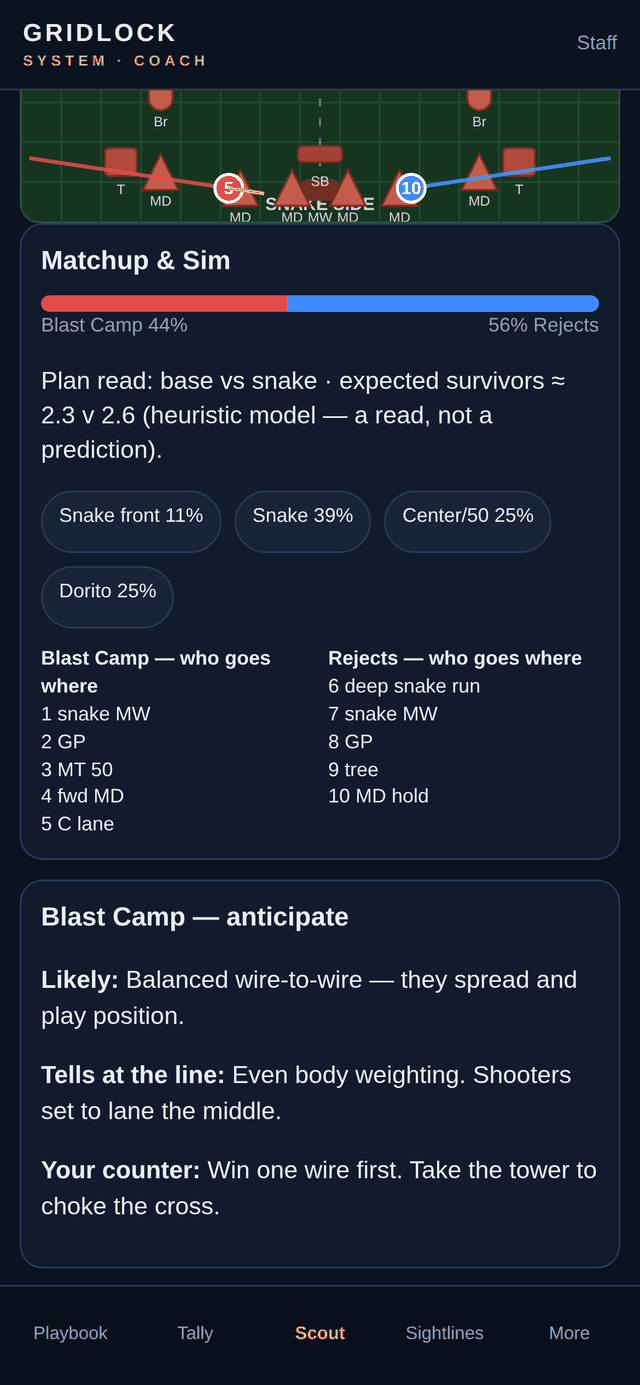
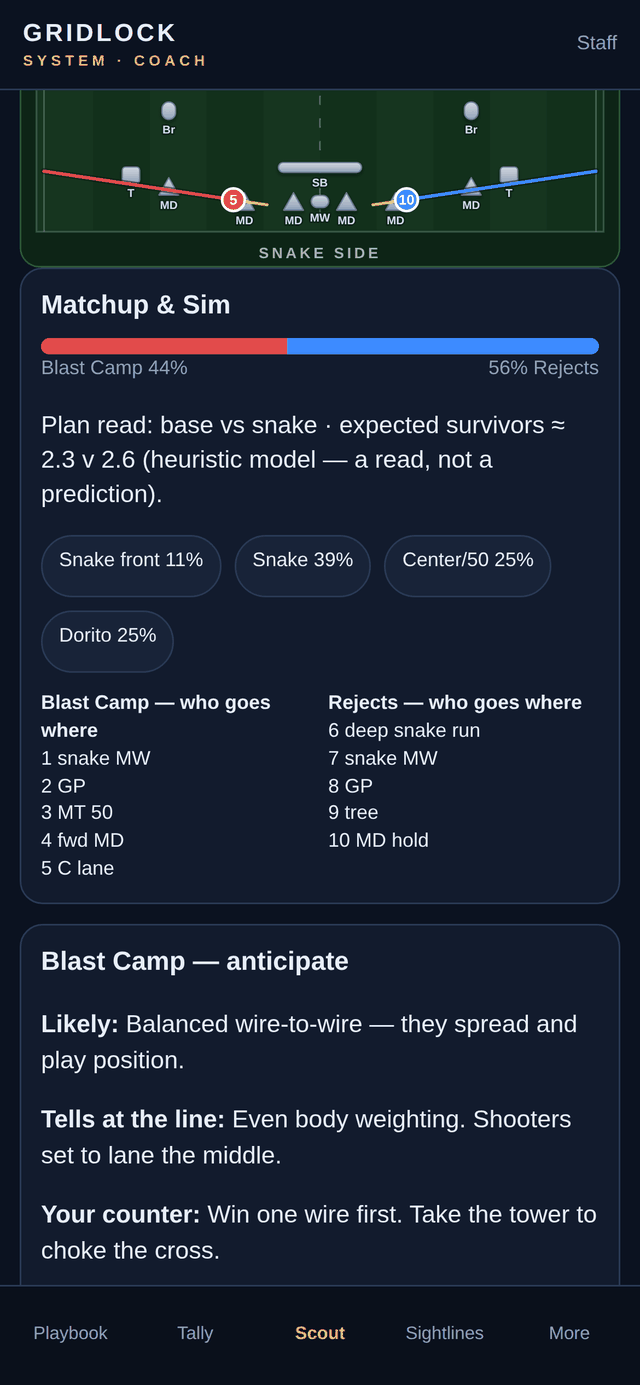
Redraw the bunkers so the field reads clean
The footprints were merging into blobs and fighting the break paths.

Sizes were fixed pixel values that ignored how close the bunkers
actually sit. The tightest pair on the CIN layout is 12 units apart, but
an MW was drawn 20 wide, so the two either side of the 50 overlapped by
8 and printed as one lozenge; the GW/GB/GW tower column ran together the
same way. Footprints are now half-extents sized against that real
spacing, so nothing touches.

Bunkers were also the same red as the left team's paths, which made the
break hard to follow across them. They now share one cool grey material
with a soft lift off the turf, so silhouette carries the type and the
red and blue paths stay the loudest thing on the field. Shapes are
distinct rather than near-identical rounded rects: upright capsule for a
can, capsule on its side for MW, long bar for the snake beam, squared
temple, narrow tower with GB visibly bigger than GW, ringed cake, cross
for GP, and wings that point away from the 50 instead of always left.

Codes collided badly — the bottom row printed MD MW MD over itself. They
now sit below the footprint and flip above it when that slot is taken,
and drop out entirely rather than overprint. A dark halo keeps them
legible on turf.

Turf is mown bands instead of a 15x12 grid, with the centre 50 dashed
and both start lines marked. DORITO SIDE and SNAKE SIDE moved into a
margin outside the play area, where they no longer sit under the
[…]

diff --git a/web/index.html b/web/index.html
@@ -250,56 +250,129 @@ function posAt(path, t){
   return [lerp(pts[i][0],pts[i+1][0],f), lerp(pts[i][1],pts[i+1][1],f)];
 }
 
+// Bunker footprints, in SVG units, as half-extents. Sized against the real
+// spacing of the layout: the tightest pair on CIN sits 12 units apart, so the
+// widest piece stays under 6 either side and nothing merges into a blob.
+const BUNKER = {
+  dorito:  {h:5.2, v:4.6},
+  temple:  {h:4.6, v:4.2},
+  tower:   {h:2.6, v:5.8},
+  towerbig:{h:3.6, v:8.2},
+  beam:    {h:15,  v:2.6},
+  plus:    {h:5.6, v:5.6},
+  wing:    {h:6.6, v:4.2},
+  mw:      {h:4.6, v:3.2},
+  cake:    {h:4.6, v:4.6},
+  can:     {h:3.6, v:4.6}
+};
+function bunkerSize(b){ return BUNKER[b.t] || BUNKER.can; }
+
+// One material for every bunker so the silhouette carries the type, and the
+// red and blue break paths stay the loudest thing on the field.
 function bunkerShape(b, sx, sy){
-  const x=b.x*sx, y=b.y*sy;
-  const fill="#c45c4a", stroke="#7a2e22";
-  if(b.t==="dorito") return `<polygon points="${x},${y-10} ${x-9},${y+8} ${x+9},${y+8}" fill="${fill}" stroke="${stroke}"/>`;
-  if(b.t==="temple") return `<rect x="${x-8}" y="${y-7}" width="16" height="14" rx="2" fill="#b14a3c" stroke="${stroke}"/>`;
-  if(b.t==="tower"||b.t==="towerbig") return `<rect x="${x-6}" y="${y-14}" width="12" height="${b.t==="towerbig"?28:20}" rx="2" fill="#8b3a30" stroke="${stroke}"/>`;
-  if(b.t==="beam") return `<rect x="${x-(b.w||20)/2}" y="${y-4}" width="${b.w||20}" height="8" rx="2" fill="#9a4034" stroke="${stroke}"/>`;
-  if(b.t==="plus") return `<g fill="#a8483a" stroke="${stroke}"><rect x="${x-8}" y="${y-3}" width="16" height="6"/><rect x="${x-3}" y="${y-8}" width="6" height="16"/></g>`;
-  if(b.t==="wing") return `<polygon points="${x-12},${y} ${x+10},${y-6} ${x+10},${y+6}" fill="${fill}" stroke="${stroke}"/>`;
-  if(b.t==="mw") return `<rect x="${x-10}" y="${y-5}" width="20" height="10" rx="5" fill="#6a2f28" stroke="${stroke}"/>`;
-  return `<rect x="${x-6}" y="${y-8}" width="12" height="16" rx="6" fill="${fill}" stroke="${stroke}"/>`;
+  const x = b.x*sx, y = b.y*sy, s = bunkerSize(b);
+  const fill = 'url(#bnkFace)', edge = '#6d7c92', sw = 'stroke-width=".7"';
+  const box = (w,h,r) => `<rect x="${(x-w).toFixed(1)}" y="${(y-h).toFixed(1)}" width="${(w*2).toFixed(1)}" height="${(h*2).toFixed(1)}" rx="${r}" fill="${fill}" stroke="${edge}" ${sw}/>`;
+
+  switch(b.t){
+    case "dorito":
+      return `<polygon points="${x},${(y-s.v).toFixed(1)} ${(x-s.h).toFixed(1)},${(y+s.v).toFixed(1)} ${(x+s.h).toFixed(1)},${(y+s.v).toFixed(1)}" fill="${fill}" stroke="${edge}" ${sw} stroke-linejoin="round"/>`;
+    case "wing": {
+      // Wings point away from the 50, toward their own end line.
+      const dir = b.x < 75 ? -1 : 1;
+      return `<polygon points="${(x+s.h*dir).toFixed(1)},${y} ${(x-s.h*dir).toFixed(1)},${(y-s.v).toFixed(1)} ${(x-s.h*dir).toFixed(1)},${(y+s.v).toFixed(1)}" fill="${fill}" stroke="${edge}" ${sw} stroke-linejoin="round"/>`;
+    }
+    case "plus":
+      return `<path d="M${x-1.9} ${y-s.v}h3.8v${s.v-1.9}h${s.h-1.9}v3.8h-${s.h-1.9}v${s.v-1.9}h-3.8v-${s.v-1.9}h-${s.h-1.9}v-3.8h${s.h-1.9}z" fill="${fill}" stroke="${edge}" ${sw} stroke-linejoin="round"/>`;
+    case "cake":
+      return `<circle cx="${x}" cy="${y}" r="${s.h}" fill="${fill}" stroke="${edge}" ${sw}/>`
+           + `<circle cx="${x}" cy="${y}" r="${(s.h*0.45).toFixed(1)}" fill="none" stroke="${edge}" stroke-width=".6" opacity=".7"/>`;
+    case "temple":   return box(s.h, s.v, 1.6);            // squared off
+    case "tower":
+    case "towerbig": return box(s.h, s.v, s.h*0.8);        // tall and narrow
+    case "beam":     return box(b.w ? b.w*sx/2 : s.h, s.v, s.v);  // long bar
+    case "mw":       return box(s.h, s.v, s.v);            // capsule on its side
+    default:         return box(s.h, s.v, s.h);            // can — upright capsule
+  }
+}
+
+// Codes go below the footprint, and shift above it when the slot below is
+// already taken. Without this the centre bunkers print "MW MW MW" on top of
+// one another.
+function bunkerLabels(list, sx, sy){
+  const FS = 6, CH = 3.4, PAD = 1.2;
+  const placed = [];
+  const hits = (a) => placed.some(b =>
+    Math.abs(a.cx-b.cx) < (a.w+b.w)/2 + PAD && Math.abs(a.cy-b.cy) < (a.h+b.h)/2 + PAD);
+
+  return list.map(b => {
+    const x = b.x*sx, y = b.y*sy, s = bunkerSize(b);
+    const w = b.n.length*CH + 1, h = FS;
+    const below = {cx:x, cy:y + s.v + FS*0.9, w, h};
+    const above = {cx:x, cy:y - s.v - FS*0.4, w, h};
+    const spot = !hits(below) ? below : (!hits(above) ? above : null);
+    if(!spot) return "";                       // no room — the shape still reads
+    placed.push(spot);
+    return `<text x="${spot.cx.toFixed(1)}" y="${(spot.cy+FS*0.35).toFixed(1)}" text-anchor="middle" font-size="${FS}" font-weight="600" fill="#cfe0f2" stroke="#0d2416" stroke-width="1.6" paint-order="stroke" stroke-linejoin="round">${b.n}</text>`;
+  }).join("");
 }
 
 function fieldSVG(opts={}){
   const layout = LAYOUTS[S.layoutKey] || LAYOUTS.tbo;
   const W=300,H=240,sx=W/150,sy=H/120;
+  const M=18;                                  // margin for the side labels
   const br = BREAKS[S.script] || BREAKS.snake;
   const t = opts.static?1:S.t;
-  let paths="";
-  br.paths.forEach(p=>{
-    const pts=[p.from,...(p.via||[]),p.to].map(q=>`${q[0]*sx},${q[1]*sy}`).join(" ");
-    paths += `<polyline fill="none" stroke="${opts.color||'#e24b4b'}" stroke-width="2" points="${pts}" opacity=".85"/>`;
-    const xy=posAt(p,t);
-    paths += `<circle cx="${xy[0]*sx}" cy="${xy[1]*sy}" r="7" fill="${opts.color||'#e24b4b'}" stroke="#fff" stroke-width="1.5"/>`;
-    paths += `<text x="${xy[0]*sx}" y="${xy[1]*sy+3}" text-anchor="middle" font-size="9" fill="#fff" font-weight="700">${p.id}</text>`;
+
+  // Break paths. A dark casing under each line keeps it readable where it
+  // crosses a bunker.
+  const runner = (list, colour, offset) => list.map(p=>{
+    const pts=[p.from,...(p.via||[]),p.to].map(q=>`${(q[0]*sx).toFixed(1)},${(q[1]*sy).toFixed(1)}`).join(" ");
+    const xy=posAt(p,t), cx=xy[0]*sx, cy=xy[1]*sy;
+    let out = `<polyline fill="none" stroke="#0a1c11" stroke-width="3.4" stroke-linecap="round" stroke-linejoin="round" opacity=".55" points="${pts}"/>`
+            + `<polyline fill="none" stroke="${colour}" stroke-width="1.8" stroke-linecap="round" stroke-linejoin="round" points="${pts}"/>`;
     if(S.shotOn){
       const ang = Math.atan2(p.to[1]-p.from[1], p.to[0]-p.from[0]);
-      const ax=xy[0]*sx+Math.cos(ang)*18, ay=xy[1]*sy+Math.sin(ang)*18;
-      paths += `<line x1="${xy[0]*sx}" y1="${xy[1]*sy}" x2="${ax}" y2="${ay}" stroke="#f0c14b" stroke-width="2"/>`;
+      out += `<line x1="${cx.toFixed(1)}" y1="${cy.toFixed(1)}" x2="${(cx+Math.cos(ang)*18).toFixed(1)}" y2="${(cy+Math.sin(ang)*18).toFixed(1)}" stroke="#f0c14b" stroke-width="1.6" stroke-linecap="round" opacity=".9"/>`;
     }
-  });
+    out += `<circle cx="${cx.toFixed(1)}" cy="${cy.toFixed(1)}" r="6" fill="${colour}" stroke="#fff" stroke-width="1.4"/>`
+         + `<text x="${cx.toFixed(1)}" y="${(cy+2.6).toFixed(1)}" text-anchor="middle" font-size="7.5" fill="#fff" font-weight="700">${p.id+offset}</text>`;
+    return out;
+  }).join("");
+
+  let paths = runner(br.paths, opts.color||"#e24b4b", 0);
   if(opts.both){
-    br.paths.forEach(p=>{
-      const flip=q=>[150-q[0],q[1]];
-      const pts=[p.from,...(p.via||[]),p.to].map(flip).map(q=>`${q[0]*sx},${q[1]*sy}`).join(" ");
-      paths += `<polyline fill="none" stroke="#3d8bff" stroke-width="2" points="${pts}" opacity=".85"/>`;
-      const xy=posAt({from:flip(p.from),to:flip(p.to),via:(p.via||[]).map(flip)}, t);
-      paths += `<circle cx="${xy[0]*sx}" cy="${xy[1]*sy}" r="7" fill="#3d8bff" stroke="#fff" stroke-width="1.5"/>`;
-      paths += `<text x="${xy[0]*sx}" y="${xy[1]*sy+3}" text-anchor="middle" font-size="9" fill="#fff" font-weight="700">${p.id+5}</text>`;
-    });
+    const flip=q=>[150-q[0],q[1]];
+    paths += runner(br.paths.map(p=>({...p,from:flip(p.from),to:flip(p.to),via:(p.via||[]).map(flip)})), "#3d8bff", 5);
   }
-  const bunks = layout.bunkers.map(b=>bunkerShape(b,sx,sy)+`<text x="${b.x*sx}" y="${b.y*sy+16}" text-anchor="middle" font-size="7" fill="#d7e7c8">${b.n}</text>`).join("");
-  return `<svg class="field" viewBox="0 0 ${W} ${H}">
+
+  const bunks = layout.bunkers.map(b=>bunkerShape(b,sx,sy)).join("");
+
+  return `<svg class="field" viewBox="-8 ${-M} ${W+16} ${H+M*2}">
+    <defs>
+      <linearGradient id="bnkFace" x1="0" y1="0" x2="0" y2="1">
+        <stop offset="0" stop-color="#ccd7e6"/>
+        <stop offset="1" stop-color="#93a2b8"/>
+      </linearGradient>
+      <filter id="bnkLift" x="-40%" y="-40%" width="180%" height="200%">
+        <feDropShadow dx="0" dy="1.1" stdDeviation="1" flood-color="#04120a" flood-opacity=".55"/>
+      </filter>
+    </defs>
+
+    <rect x="-8" y="${-M}" width="${W+16}" height="${H+M*2}" fill="#0d2416"/>
     <rect width="${W}" height="${H}" fill="#16351f"/>
-    ${[...Array(15)].map((_,i)=>`<line x1="${i*20}" y1="0" x2="${i*20}" y2="${H}" stroke="#1f4a2c" stroke-width="1"/>`).join("")}
-    ${[...Array(12)].map((_,i)=>`<line x1="0" y1="${i*20}" x2="${W}" y2="${i*20}" stroke="#1f4a2c" stroke-width="1"/>`).join("")}
-    <line x1="${W/2}" y1="8" x2="${W/2}" y2="${H-8}" stroke="#d7e7c8" stroke-dasharray="4 6" opacity=".5"/>
-    <text x="${W/2}" y="14" text-anchor="middle" fill="#cfe7c4" font-size="9" font-weight="700">DORITO SIDE</text>
-    <text x="${W/2}" y="${H-6}" text-anchor="middle" fill="#cfe7c4" font-size="9" font-weight="700">SNAKE SIDE</text>
-    ${bunks}${paths}
+    ${[...Array(10)].map((_,i)=>i%2?`<rect x="${i*(W/10)}" y="0" width="${W/10}" height="${H}" fill="#12301b"/>`:"").join("")}
+    <rect width="${W}" height="${H}" fill="none" stroke="#5e7f68" stroke-width="1" opacity=".5"/>
+    <line x1="${W/2}" y1="0" x2="${W/2}" y2="${H}" stroke="#d7e7c8" stroke-width=".8" stroke-dasharray="5 7" opacity=".38"/>
+    <line x1="4" y1="0" x2="4" y2="${H}" stroke="#d7e7c8" stroke-width=".8" opacity=".3"/>
+    <line x1="${W-4}" y1="0" x2="${W-4}" y2="${H}" stroke="#d7e7c8" stroke-width=".8" opacity=".3"/>
+
+    <g filter="url(#bnkLift)">${bunks}</g>
+    ${bunkerLabels(layout.bunkers, sx, sy)}
+    ${paths}
+
+    <text x="${W/2}" y="${-M+8}" text-anchor="middle" fill="#9fc2a8" font-size="8" font-weight="700" letter-spacing="1.6">DORITO SIDE</text>
+    <text x="${W/2}" y="${H+M-4}" text-anchor="middle" fill="#9fc2a8" font-size="8" font-weight="700" letter-spacing="1.6">SNAKE SIDE</text>
   </svg>`;
 }
 
